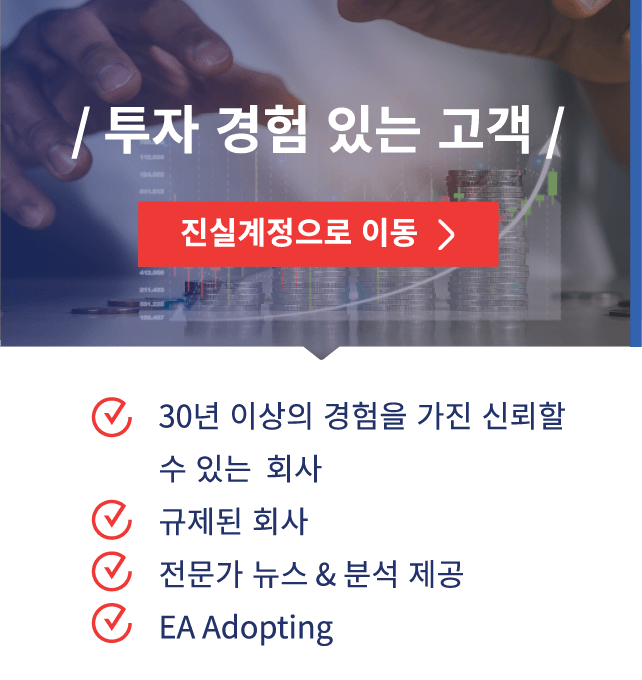
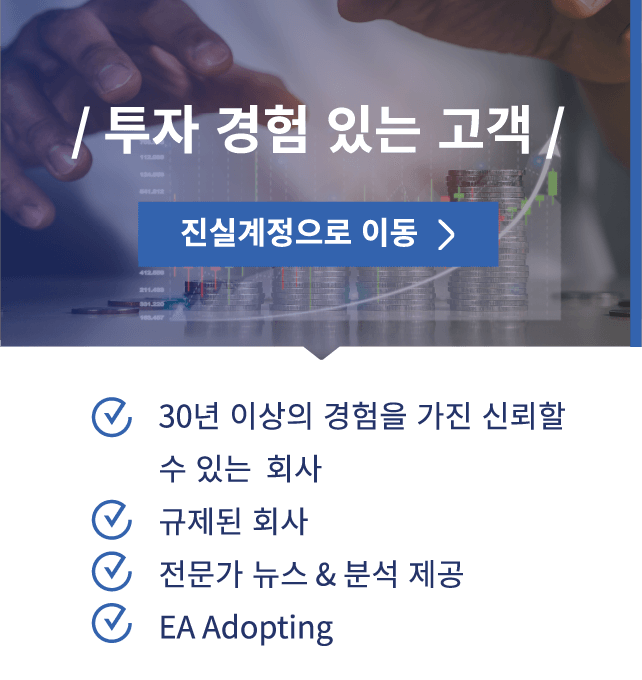
a
a

Changed region(s): [[0.2181, 0.2779, 0.7788, 0.4015], [0.1246, 0.7103, 0.2181, 0.9574], [0.1246, 0.5868, 0.2181, 0.6485]]

diff --git a/kr/assets/css/main.css b/kr/assets/css/main.css
@@ -127,7 +127,7 @@ h3 {
 }
 
 .submit-btn {
-    background: #F58101;
+    background: #f26861;
     color: #fff;
     padding: 8px 45px;
     font-size: 1.3rem;
